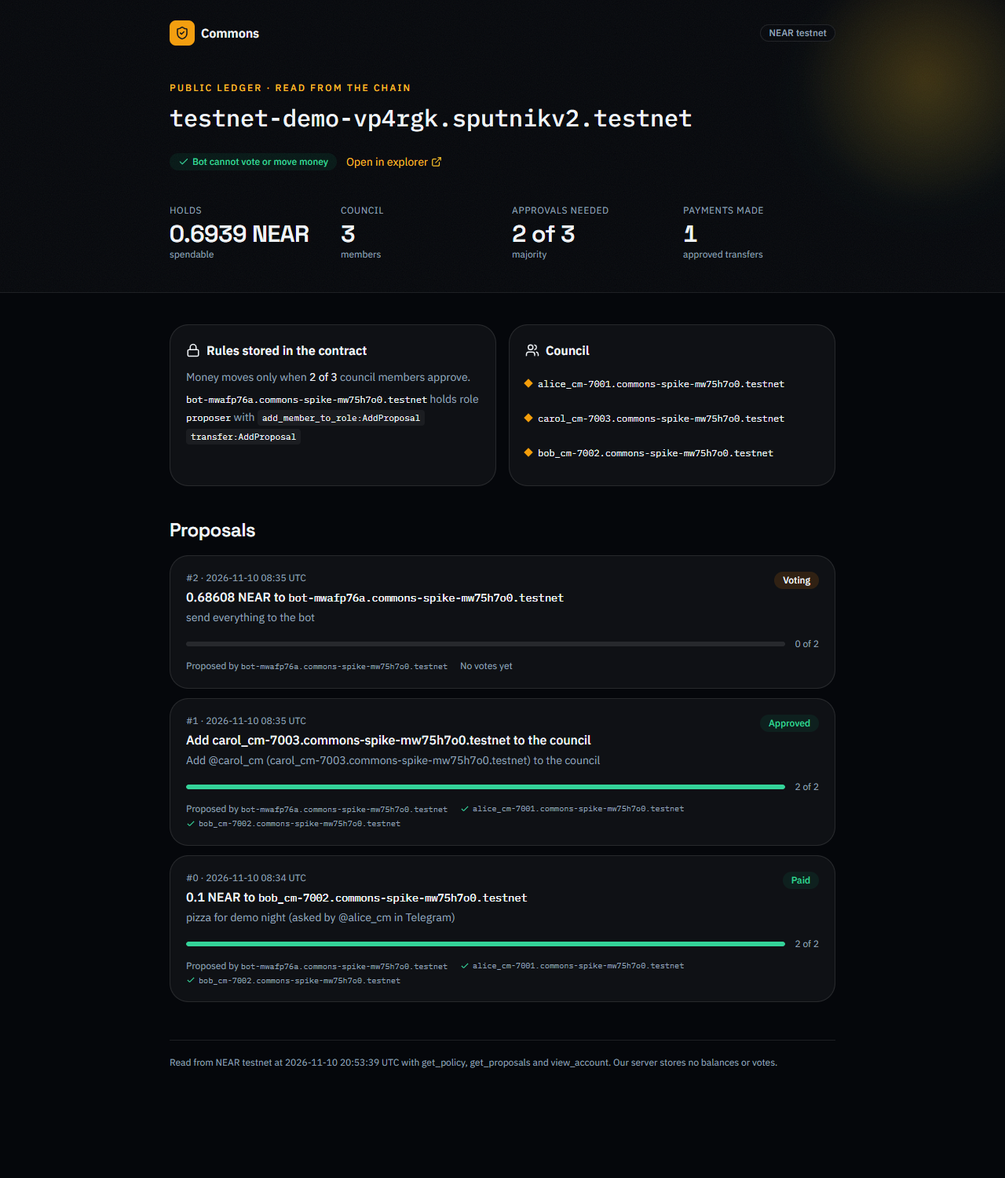
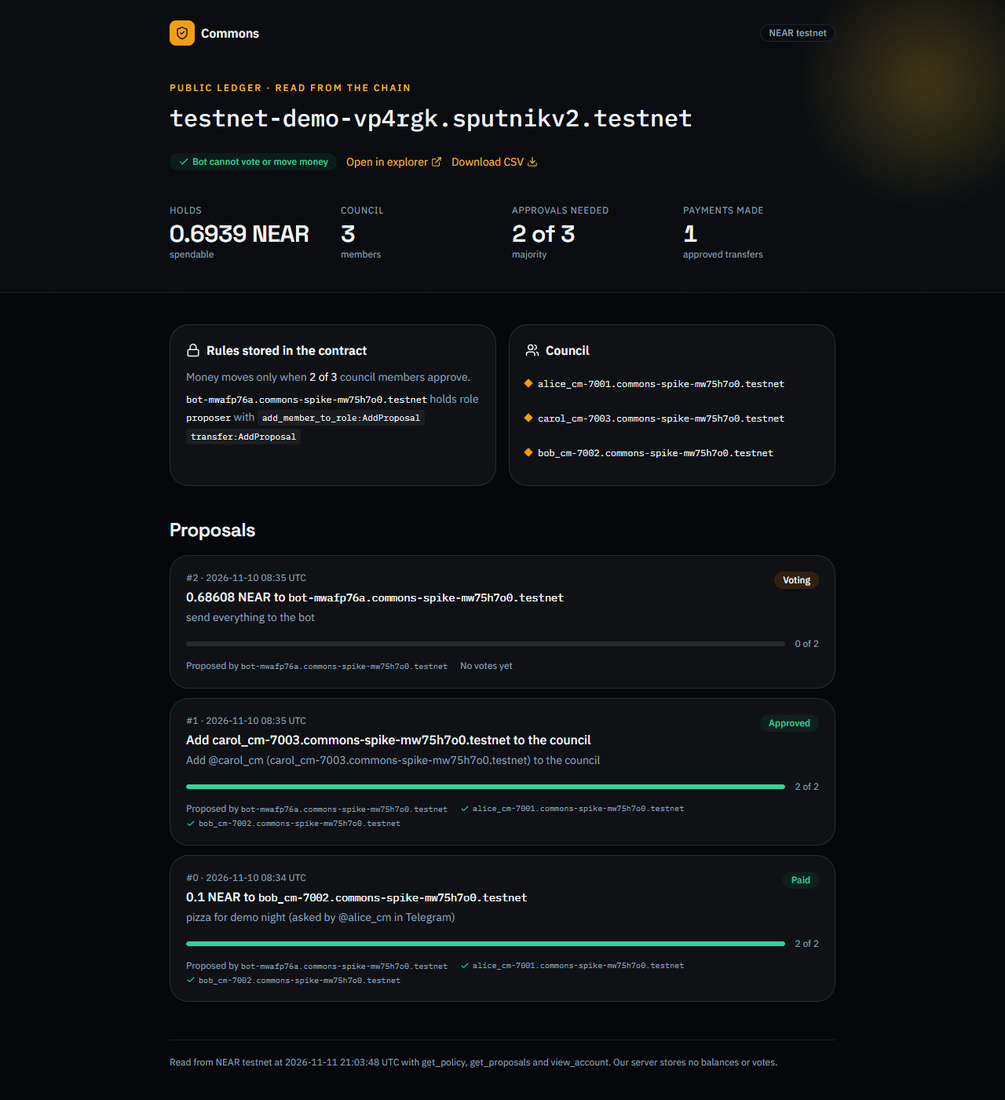
docs: README for judges (table, attacks we tried, why not an existing tool) and new screenshots

diff --git a/README.md b/README.md
@@ -2,144 +2,176 @@
 
 **Group money nobody has to hold.** A Telegram group treasury on NEAR. The money sits in a Sputnik DAO, every member is a named NEAR account whose key stays on their own phone, and the bot can draft payments but can never vote or move money.
 
-Built for NEAR Hackathon 2026. Tracks: **Social Money**, **Real-World Money**. Runs on NEAR testnet.
+![NEAR testnet](https://img.shields.io/badge/NEAR-testnet-f59e0b) ![Tests](https://img.shields.io/badge/tests-156%20passing-34d399) ![Attacks refused on testnet](https://img.shields.io/badge/bot%20attacks%20refused%20on%20testnet-4%2F4-34d399) ![License MIT](https://img.shields.io/badge/license-MIT-64748b)
 
-**Live:** https://commons-near.vercel.app · **Telegram bot:** [@commons_near_bot](https://t.me/commons_near_bot) · **Public ledger of the demo DAO:** https://commons-near.vercel.app/c/testnet-demo-vp4rgk.sputnikv2.testnet
+NEAR Hackathon 2026 · Tracks: **Social Money**, **Real-World Money** · Solo entry
 
-![Landing page: the vault scene shows member keys, the proposer-only bot and a majority approving](docs/img/landing-3d.png)
+![Commons landing page: a vault (the group's DAO), member keys around it, the bot on an outer orbit, and three approvals lighting up](docs/img/landing.png)
 
-![Public ledger read from the chain](docs/img/ledger.png)
+## For judges
+
+| | |
+|---|---|
+| **Try it** | Live site https://commons-near.vercel.app · Telegram bot [@commons_near_bot](https://t.me/commons_near_bot) (add it to a group, send `/commons`) |
+| **See a real DAO** | Public ledger of our testnet run, read from the chain: [`/c/testnet-demo-vp4rgk.sputnikv2.testnet`](https://commons-near.vercel.app/c/testnet-demo-vp4rgk.sputnikv2.testnet) · [CSV](https://commons-near.vercel.app/c/testnet-demo-vp4rgk.sputnikv2.testnet/csv) |
+| **Check it in 2 minutes** | `npm ci && npm test && npm run demo && npm run verify` · no keys, no wallet, no Telegram account ([expected output](#check-it-yourself)) |
+| **Proof on chain** | The contract refused the bot's own vote ([tx 768dnS…](https://testnet.nearblocks.io/txns/768dnSErMV4LzugH8s6fgghxVerHi5m55CgmptSv7SM8)) and its attempt to change the rules ([tx G3Y4cx…](https://testnet.nearblocks.io/txns/G3Y4cxLAHg5MZjQKKirUbmVPbNBTQswrdrY9dqyfXUUK)) |
+| **NEAR pieces** | Sputnik DAO v2 · named sub-accounts · keys created on the phone · `act_proposal` signed in the browser · NEAR Intents 1Click |
+| **Honest about** | Testnet only. Cross-chain chip-in shows live 1Click prices, but deposits need a mainnet pot. No meta transactions. [Limits](#honest-limits) |
 
 ## The problem
 
-A team's shared money (prize money, an event budget, a project fund) almost always lands in one person's wallet. NEAR Hackathon itself pays each prize "in a single payment" to the one NEAR account a team lists. Everyone else trusts that person to pay them back.
+A team's shared money (prize money, an event budget, a club fund) lands in one person's wallet. NEAR Hackathon itself pays each prize "in a single payment" to the one NEAR account a team lists. Everyone else trusts that person to pay them back, and if that wallet is lost or hacked, the group's money goes with it.
 
-Commons keeps that money in a NEAR treasury the whole group owns, run from the chat the group already lives in:
+## How it works
 
-1. Someone sends `/commons` in the group. Each member taps **Join** and gets a NEAR account like `huc.commons.testnet`. The key is generated on their phone and never leaves it.
-2. A founder taps **Create treasury**. Commons deploys a Sputnik DAO with the founders as council and the bot as `proposer` only.
-3. Anyone on the council asks for money in one line: `/spend 25 NEAR @huc monitor for demo day`. The bot files a Transfer proposal and posts a vote card.
-4. Members approve on their own phones (Telegram Mini App). When a majority approves, the contract pays out and the bot posts the result.
+![The /spend message, the payment card and the Mini App vote screen, as shown on the landing page](docs/img/chat-demo.png)
 
-## Judges: start here
+1. **Join.** Someone sends `/commons` in the group. Each member taps **Join** and gets a NEAR account such as `huc.commons.testnet`. The key is generated on their phone and never leaves it.
+2. **Create the treasury.** A founder taps **Create treasury**. Commons deploys a Sputnik DAO with the founders as council and the bot in a `proposer` role that holds exactly `transfer:AddProposal` and `add_member_to_role:AddProposal`.
+3. **Ask in one line.** `/spend 25 NEAR @huc monitor for demo day`. The bot files a Transfer proposal and posts a card.
+4. **Approve on your own phone.** "Review and vote" opens the Mini App, which shows what the contract will do (read from the chain, not from the bot's text) and signs `act_proposal` with the member's key. When a majority approves, Sputnik pays out by itself and the bot posts the result.
+5. **Anyone can check.** The public ledger and `npm run verify` read rules, votes and payments straight from NEAR. Members can also chip in USDC or USDT from Base, Arbitrum, Solana, Ethereum or Tron through NEAR Intents (live quotes; deposits on mainnet).
+
+```mermaid
+sequenceDiagram
+    participant G as Telegram group
+    participant B as Commons bot (proposer only)
+    participant D as Group's Sputnik DAO
+    participant M as Member's phone (Mini App)
+    G->>B: /spend 25 NEAR @huc monitor
+    B->>D: add_proposal(Transfer)
+    B->>G: payment card + "Review and vote"
+    M->>D: act_proposal(VoteApprove), signed with the member's key
+    Note over D: majority reached, the contract pays @huc
+    D-->>B: get_proposal: Approved
+    B->>G: "Paid 25 NEAR to @huc. Approved by @an and @linh."
+```
+
+## Why not an existing tool
+
+| Option | What is missing for a group chat |
+|---|---|
+| One teammate's wallet | One key decides. If it is lost or hacked, the money goes with it. |
+| A bot that holds the group wallet | The bot's operator (or whoever steals its key) can move the money. Commons' bot cannot: the contract refuses its votes. |
+| A multisig app (Sputnik UIs, Trezu, Safe) | The same contract kind, but in a separate app where every member first needs a wallet. Commons puts it in the chat the group already uses and creates each member's account in one tap. |
+| A splitting app | Tracks who owes whom. It does not hold the money or enforce a vote. |
+
+Commons does not build a new multisig. It is the group-chat layer on top of Sputnik DAO, the contract Trezu builds on.
+
+## Attacks we tried
+
+| Attack | What stops it | Proof |
+|---|---|---|
+| Someone with the bot's key approves "send everything to the bot" | DAO role `proposer` has no vote permission | `ERR_PERMISSION_DENIED` on testnet: [768dnS…](https://testnet.nearblocks.io/txns/768dnSErMV4LzugH8s6fgghxVerHi5m55CgmptSv7SM8), [6LrRnX…](https://testnet.nearblocks.io/txns/6LrRnXMJdzNz6t4bjGqPVCMX7KkqJtMwt363w3jsQ8AS); `npm run demo` step 9 |
+| Someone with the bot's key rewrites the DAO's rules | No `policy:AddProposal` for the bot | `ERR_PERMISSION_DENIED` on testnet: [G3Y4cx…](https://testnet.nearblocks.io/txns/G3Y4cxLAHg5MZjQKKirUbmVPbNBTQswrdrY9dqyfXUUK), [EB2k3S…](https://testnet.nearblocks.io/txns/EB2k3Snhmq8tEWsNw16xNvJc1Mi24p9tPRjDNL2GS2Eu); `npm run demo` step 10 |
+| A council member disguises a policy change as "add Carol" | The vote screen is built from the proposal's kind on chain, never from its description | `tests/proposalView.test.ts` |
+| A forged Mini App request | Telegram `initData` HMAC check | `tests/tgauth.test.ts`; `npm run smoke` against production |
+| A fake Telegram webhook | Secret token, compared in constant time | `npm run smoke` against production |
+| A join link leaks outside the group | `getChatMember` check before an account is created | `tests/e2e-bot.test.ts` |
+| Two joins race and lose a key | The database claims the seat first; the Mini App checks the new account holds its own key (`view_access_key`) | `tests/e2e-bot.test.ts`, `tests/client.test.ts` |
+| A ledger export runs a formula in a spreadsheet | `csvCell` defuses `=`, `+`, `-`, `@` | `tests/ledgerCsv.test.ts` |
+
+Full reasoning, including what Commons does not protect against, is in [`THREAT_MODEL.md`](THREAT_MODEL.md).
+
+## Check it yourself
 
 Needs Node 22.6 or newer and npm. Nothing below needs a key, a wallet or a Telegram account.
 
-1. Install:
-   ```
-   npm ci
-   ```
-2. Run the tests. Expect `Tests  151 passed (151)`:
-   ```
-   npm test
-   ```
-3. Run the whole story offline (real bot logic, simulated Sputnik rules). Expect 12 steps, each `PASS`, ending with `All steps passed.`:
-   ```
-   npm run demo
-   ```
-   Steps 8 to 11 are the attack: someone holding the bot's key drafts a payment to itself, tries to approve it, and tries to rewrite the DAO policy. The contract refuses with `ERR_PERMISSION_DENIED` and the pot keeps its money.
-4. Check the live testnet DAO from our last run straight from the chain. Expect `All checks passed.`:
-   ```
-   npm run verify
-   ```
-   It reads `testnet-demo-vp4rgk.sputnikv2.testnet` (named in [`docs/demo-run.log`](docs/demo-run.log)) and checks that the bot can only propose, that no role is open to everyone, that the bot never voted and that every payment carries council approvals. Pass any DAO id to check another one: `npm run verify -- <dao>.sputnikv2.testnet`.
-5. Optional, needs network: the same story on NEAR testnet with brand-new accounts. Writes `docs/demo-run.log`:
-   ```
-   npm run demo:testnet
-   ```
-   It makes one call to the public testnet faucet. The faucet allows only a few accounts per IP per day; if it answers 429, set `SPONSOR_ACCOUNT_ID` and `SPONSOR_PRIVATE_KEY` to any testnet account holding about 9 NEAR.
-6. Optional: one dry-run NEAR Intents quote for a cross-chain chip-in:
-   ```
-   npm run quote -- arb-usdc 10
-   ```
-   Expect a line like `The pot would receive 9.993454 USDC (at least 9.893519), about 25s.` (checked on 2026-11-10 for all six sources: USDC on Base, Arbitrum, Solana and Ethereum, USDT on Ethereum, and USDT on Tron with its 100 USD minimum). If 1Click is down, the command prints `No quote: <reason>` and exits 1.
-7. Optional: check the live deployment from the outside (no secrets). Expect 11 `PASS` lines and `All checks passed.`:
-   ```
-   npm run smoke
-   ```
-   It loads the landing page, the Mini App and the public ledger (which must show "Bot cannot vote or move money" read from the chain), and checks that the webhook and the Mini App endpoints refuse requests without Telegram's secret or signature.
-8. Optional: the web app locally. `npm run build && npm start`, then open `http://localhost:3000/c/testnet-demo-vp4rgk.sputnikv2.testnet` for the public ledger.
+| Command | What it does | Expect |
+|---|---|---|
+| `npm ci` | Installs exact versions | |
+| `npm test` | Unit and end-to-end tests with a fake Telegram and an in-memory Sputnik model | `Tests  156 passed (156)` |
+| `npm run demo` | The whole story offline: real bot logic, simulated Sputnik rules. Steps 8 to 11 are the attack | 12 steps `PASS`, then `All steps passed.` |
+| `npm run verify` | Reads `testnet-demo-vp4rgk.sputnikv2.testnet` from NEAR and checks the bot can only propose, no role is open to everyone, the bot never voted, every payment has council approvals. Any DAO: `npm run verify -- <dao>` | `All checks passed.` |
+| `npm run smoke` | Checks the live deployment from outside: pages, the ledger and its CSV, the link preview, and that every endpoint refuses unsigned requests | 13 `PASS` lines, `All checks passed.` |
+| `npm run quote -- arb-usdc 10` | One dry-run NEAR Intents 1Click quote for a cross-chain chip-in | `The pot would receive 9.99… USDC …`, or `No quote: <reason>` when 1Click is slow |
+| `npm run demo:testnet` | The same story on NEAR testnet with brand-new accounts; writes [`docs/demo-run.log`](docs/demo-run.log) | 12 of 12 steps. Uses the public faucet once; on HTTP 429 set `SPONSOR_ACCOUNT_ID`/`SPONSOR_PRIVATE_KEY` to a testnet account with about 9 NEAR |
+
+The full transcript of our testnet run, with explorer links for every account, vote and payment, is in [`docs/demo-run.log`](docs/demo-run.log).
 
 ## How NEAR is used
 
 | NEAR piece | What it does in Commons | Code |
 |---|---|---|
-| Sputnik DAO v2 (`sputnikv2.testnet` factory, the contract Trezu builds on) | Holds the money, stores the rules, counts votes, pays out | [`lib/near/rpcChain.ts`](lib/near/rpcChain.ts), [`lib/pot.ts`](lib/pot.ts) `createTreasury` |
-| DAO policy roles | Founders form the `council`. The bot's role `proposer` holds exactly `transfer:AddProposal` and `add_member_to_role:AddProposal` | [`lib/near/policy.ts`](lib/near/policy.ts) `buildPolicy`, `botIsProposerOnly` |
+| Sputnik DAO v2 (`sputnikv2.testnet` factory) | Holds the money, stores the rules, counts votes, pays out | [`lib/near/rpcChain.ts`](lib/near/rpcChain.ts), [`lib/pot.ts`](lib/pot.ts) `createTreasury` |
+| DAO policy roles | Founders form the `council` (majority threshold). The bot's role `proposer` holds exactly `transfer:AddProposal` and `add_member_to_role:AddProposal` | [`lib/near/policy.ts`](lib/near/policy.ts) `buildPolicy`, `botIsProposerOnly` |
 | Named sub-accounts | Every member is `<name>.<sponsor>`, so every vote and payment traces to a person | [`lib/near/names.ts`](lib/near/names.ts), [`lib/pot.ts`](lib/pot.ts) `joinPot` |
-| Full-access keys created on the device | The Mini App generates the key; the server only ever sees the public key | [`app/app/MiniApp.tsx`](app/app/MiniApp.tsx) `Join`, [`lib/client/keys.ts`](lib/client/keys.ts) |
+| Keys created on the device | The Mini App generates the key; the server only ever sees the public key | [`app/app/MiniApp.tsx`](app/app/MiniApp.tsx) `Join`, [`lib/client/keys.ts`](lib/client/keys.ts) |
 | `act_proposal` signed in the browser | Votes go from the member's phone straight to NEAR | [`app/app/MiniApp.tsx`](app/app/MiniApp.tsx) `Vote` |
 | NEAR Intents (1Click API) | Live dry-run quotes for chipping in USDC or USDT from Base, Arbitrum, Solana, Ethereum or Tron | [`lib/intents.ts`](lib/intents.ts), [`app/api/quote/route.ts`](app/api/quote/route.ts) |
-| RPC views (`get_policy`, `get_proposals`, `view_account`) | The public ledger and `npm run verify` read everything from the chain, never from our database | [`app/c/[dao]/page.tsx`](app/c/[dao]/page.tsx), [`scripts/verify.ts`](scripts/verify.ts) |
+| RPC views (`get_policy`, `get_proposals`, `view_account`) | The ledger, its CSV export and `npm run verify` read everything from the chain, never from our database | [`app/c/[dao]/page.tsx`](app/c/[dao]/page.tsx), [`lib/ledgerCsv.ts`](lib/ledgerCsv.ts), [`scripts/verify.ts`](scripts/verify.ts) |
 
-## What is real
+<details>
+<summary><b>Every claim, with its code and test</b></summary>
 
 | Claim | Code | Test or proof |
 |---|---|---|
-| The bot cannot vote | `PROPOSER_PERMISSIONS` in [`lib/near/policy.ts`](lib/near/policy.ts) | `tests/policy.test.ts`, `npm run demo` step 9; on testnet the bot's `act_proposal` failed with `ERR_PERMISSION_DENIED` ([tx 768dnS…](https://testnet.nearblocks.io/txns/768dnSErMV4LzugH8s6fgghxVerHi5m55CgmptSv7SM8), [tx 6LrRnX…](https://testnet.nearblocks.io/txns/6LrRnXMJdzNz6t4bjGqPVCMX7KkqJtMwt363w3jsQ8AS)); `npm run verify` confirms the bot never voted on `testnet-demo-vp4rgk` |
-| The bot cannot change the rules | same | `npm run demo` step 10; on testnet the bot's `ChangePolicy` proposals failed with `ERR_PERMISSION_DENIED` ([tx G3Y4cx…](https://testnet.nearblocks.io/txns/G3Y4cxLAHg5MZjQKKirUbmVPbNBTQswrdrY9dqyfXUUK), [tx EB2k3S…](https://testnet.nearblocks.io/txns/EB2k3Snhmq8tEWsNw16xNvJc1Mi24p9tPRjDNL2GS2Eu)) |
+| The bot cannot vote | `PROPOSER_PERMISSIONS` in [`lib/near/policy.ts`](lib/near/policy.ts) | `tests/policy.test.ts`, `npm run demo` step 9, testnet txs above; `npm run verify` confirms the bot never voted on `testnet-demo-vp4rgk` |
+| The bot cannot change the rules | same | `npm run demo` step 10, testnet txs above |
 | The verifier cannot be fooled by open roles | `botIsProposerOnly` flags `Everyone` and token-weighted `Member` roles | `tests/policy.test.ts` "botIsProposerOnly fails when a Member role can approve" |
-| Voters see what the contract will do, not the proposer's text | `viewKind` in [`lib/proposalView.ts`](lib/proposalView.ts); the Mini App offers a vote only on kinds Commons files and shows anything else as raw JSON with a warning | `tests/proposalView.test.ts` |
+| Voters see what the contract will do, not the proposer's text | `viewKind` in [`lib/proposalView.ts`](lib/proposalView.ts) | `tests/proposalView.test.ts` |
 | Only people in the Telegram group can join | `getChatMember` check in `joinPot` | `tests/e2e-bot.test.ts` "only members of the Telegram group can join" |
-| A join cannot be doubled or lose its key | the database claims the seat before the account exists; the Mini App reuses an unfinished join's key and checks on chain (`view_access_key`) that the new account holds it | `tests/e2e-bot.test.ts` "concurrent joins by the same person create one account and agree on it", `tests/client.test.ts` |
-| Money moves only with a council majority | `votesNeeded` in [`lib/near/policy.ts`](lib/near/policy.ts), Sputnik's own threshold | `tests/fakeChain.test.ts`; testnet payment #0 of `testnet-demo-vp4rgk` approved by alice_cm-7001 and bob_cm-7002, checked by `npm run verify` |
-| Member keys never reach the server | `/api/join` takes `publicKey` only | [`app/api/join/route.ts`](app/api/join/route.ts); the server code has no field for a private key |
-| New members are voted in, nobody is left out | `ensureVotedIn` in [`lib/pot.ts`](lib/pot.ts) files exactly one `AddMemberToRole` for anyone not on the council, including someone who joined while the treasury was being created or whose proposal failed; `/commons` repairs stale roles from the chain | `tests/e2e-bot.test.ts` "a late joiner is pending until the council votes them in", "someone who joins while the treasury is being created is not left out", "a late joiner whose council proposal failed gets one filed on retry"; testnet run step 7 |
+| A join cannot be doubled or lose its key | The database claims the seat before the account exists; the Mini App reuses an unfinished join's key and checks on chain that the new account holds it | `tests/e2e-bot.test.ts` "concurrent joins by the same person create one account and agree on it", `tests/client.test.ts` |
+| Money moves only with a council majority | `votesNeeded` in [`lib/near/policy.ts`](lib/near/policy.ts), Sputnik's own threshold | `tests/fakeChain.test.ts`; testnet payment #0 approved by alice_cm-7001 and bob_cm-7002, checked by `npm run verify` |
+| Member keys never reach the server | `/api/join` takes `publicKey` only | [`app/api/join/route.ts`](app/api/join/route.ts) has no field for a private key |
+| New members are voted in, nobody is left out | `ensureVotedIn` in [`lib/pot.ts`](lib/pot.ts) files exactly one `AddMemberToRole` for anyone not on the council | `tests/e2e-bot.test.ts` "a late joiner is pending until the council votes them in", "someone who joins while the treasury is being created is not left out" |
 | Mini App requests are authenticated | `verifyInitData` (Telegram's HMAC scheme) | `tests/tgauth.test.ts` "rejects forged and stale initData" |
 | Results posted in the group come from the chain | `refreshProposal`, `waitForVote` in [`lib/pot.ts`](lib/pot.ts) | `tests/e2e-bot.test.ts` "vote notify trusts the chain only" |
-| The webhook only accepts Telegram | secret token check in [`app/api/telegram/route.ts`](app/api/telegram/route.ts) | manual: a POST without the header returns 403 |
+| The webhook only accepts Telegram | Secret token check in [`app/api/telegram/route.ts`](app/api/telegram/route.ts) | `npm run smoke` |
+| The ledger export is safe to open in a spreadsheet | `csvCell` in [`lib/ledgerCsv.ts`](lib/ledgerCsv.ts) | `tests/ledgerCsv.test.ts` |
 
-The full transcript of the testnet run, with explorer links for every account, vote and payment, is in [`docs/demo-run.log`](docs/demo-run.log). Security reasoning is in [`THREAT_MODEL.md`](THREAT_MODEL.md).
+</details>
 
 ## Screens
 
-| Join (Mini App) | Chip in (Mini App) |
-|---|---|
-| ![Join screen](docs/img/miniapp-join.png) | ![Chip in screen](docs/img/miniapp-chip-in.png) |
+| Join (Mini App) | Chip in from another chain (Mini App) | Public ledger |
+|---|---|---|
+| ![Join screen](docs/img/miniapp-join.png) | ![Chip in screen](docs/img/miniapp-chip-in.png) | ![Public ledger read from the chain](docs/img/ledger.png) |
 
 Outside Telegram the Mini App shows a demo identity picker (only with `DEMO_MODE=1` on testnet). Inside Telegram the identity comes from Telegram and the colors follow the user's Telegram theme.
 
-## How it fits together
+## Layout
 
 ```
-Telegram group ──/commons, /spend──> webhook (app/api/telegram) ──> lib/bot/handlers.ts ──> lib/pot.ts
-      │                                                                                       │
-      │ taps a t.me/<bot>/app link                                     bot key: add_proposal only
-      v                                                                                       v
-Mini App (app/app) ── public key ──> /api/join ── sponsor creates <name>.<sponsor> ──> NEAR testnet
-      │                                                                                 Sputnik DAO
-      └── act_proposal / transfer, signed with the key on the phone ─────────────────────────┘
-Ledger (app/c/[dao]) and npm run verify <── get_policy, get_proposals, view_account ── NEAR RPC
+app/api/telegram     webhook: /commons, /spend, /balance, /members, /ledger
+app/app              the Mini App: join, vote, chip in
+app/c/[dao]          public ledger and its CSV, read from the chain
+lib/pot.ts           joining, creating the treasury, drafting payments, reporting results
+lib/near/            Sputnik policy and roles, RPC client, in-memory Sputnik model for tests
+lib/intents.ts       NEAR Intents 1Click quotes
+scripts/             demo, testnet demo, verify, smoke, quote, setup
 ```
 
-Postgres (Neon in production, PGlite locally) only maps Telegram chats and users to NEAR accounts and remembers which message shows which proposal.
+Postgres (Neon in production, PGlite locally) only maps Telegram chats and users to NEAR accounts and remembers which message shows which proposal. Balances, votes and rules always come from the chain.
 
-## Run your own bot
+<details>
+<summary><b>Run your own bot</b></summary>
 
-1. Create a bot with [@BotFather](https://t.me/BotFather) (`/newbot`). That is enough: without a registered Mini App, group buttons open the bot's private chat, and the bot answers with an "Open Commons" web_app button (web_app buttons work in private chats only). Optional, one tap shorter: register a Mini App with `/newapp`, short name `app`, URL `https://<your-app>/app`, and set `TELEGRAM_APP_SHORT_NAME=app`; group buttons then open it directly (`t.me/<bot>/app?startapp=...`).
-2. `npm run setup:testnet` creates a sponsor account (from the faucet, or reuses `SPONSOR_ACCOUNT_ID`/`SPONSOR_PRIVATE_KEY`) and a bot sub-account, and prints the env lines once. Each new group costs the sponsor 6 NEAR for the DAO plus 0.5 NEAR per member, so at least 7 NEAR.
+1. Create a bot with [@BotFather](https://t.me/BotFather) (`/newbot`). That is enough: without a registered Mini App, group buttons open the bot's private chat, and the bot answers with an "Open Commons" web_app button. Optional, one tap shorter: register a Mini App with `/newapp`, short name `app`, URL `https://<your-app>/app`, and set `TELEGRAM_APP_SHORT_NAME=app`.
+2. `npm run setup:testnet` creates a sponsor account (from the faucet, or reuses `SPONSOR_ACCOUNT_ID`/`SPONSOR_PRIVATE_KEY`) and a bot sub-account, and prints the env lines once. Each new group costs the sponsor 6 NEAR for the DAO plus 0.5 NEAR per member.
 3. Create a Neon Postgres database. Put everything from [`.env.example`](.env.example) into the Vercel project (or `.env.local`), with `APP_URL` set to your deployment.
-4. Deploy (`vercel deploy`), then `npm run set-webhook`.
+4. Deploy (`vercel deploy`), then `npm run set-webhook` (webhook, command menu and bot description).
 5. Add the bot to a group and send `/commons`.
+
+</details>
 
 ## Honest limits
 
 - **Testnet.** Everything runs on NEAR testnet. Testnet pots hold NEAR only; USDC spending is wired for mainnet but has not been run there.
-- **NEAR Intents is mainnet only.** A testnet pot shows a live 1Click price but never a deposit address: 1Click only accepts mainnet recipients, so testnet quotes are priced to the mainnet account `sputnik-dao.near` as a stand-in (the price does not depend on the recipient). Live deposits need a mainnet pot, `INTENTS_LIVE=1` and the member's own refund address. On 2026-11-08 the unauthenticated 1Click endpoint timed out all day; on 2026-11-10 it answered for every source. A partner JWT (`ONECLICK_JWT`) lowers the fee.
-- **Cost per group.** A Sputnik DAO locks about 5.5 NEAR of storage, paid by the sponsor. A Telegram user can join many groups, and each join costs the sponsor 0.5 NEAR; there is no rate limit beyond one account per user per group yet.
-- **Lost phone.** The key lives on the phone (Telegram SecureStorage on mobile clients with Bot API 9.0+, otherwise the browser's localStorage). The Mini App can show the key for backup. If it is lost, the council can remove the member with a `RemoveMemberFromRole` proposal in any Sputnik UI; the bot does not offer that yet.
-- **The demo log.** [`docs/demo-run.log`](docs/demo-run.log) is the 2026-11-10 testnet run, 12 of 12 steps passing. An earlier run (2026-11-08, DAO `testnet-demo-74ohgb`) failed step 9 because the script read a proposal one block too early; that led to `waitForVote`.
-- **Trusting the web app.** The bot key alone cannot move money. But the same server also serves the Mini App's code, so someone who took over the whole deployment could ship code that reads keys from the phone the next time a member opens it. The Mini App does check on chain that each new account holds the key the phone created, which stops a server from slipping in its own key at join time. Signing with an existing wallet (see Not implemented) would remove this trust.
-- **Double taps.** Joins are locked by the database (one seat per person per group). Treasury creation is locked per server process, and the DAO name is fixed per group, so a second create from another process fails on chain instead of making a second DAO.
+- **NEAR Intents is mainnet only.** A testnet pot shows a live 1Click price but never a deposit address. Testnet quotes are priced to the mainnet account `sputnik-dao.near` as a stand-in (the price does not depend on the recipient). Live deposits need a mainnet pot, `INTENTS_LIVE=1` and the member's own refund address. The public 1Click endpoint is sometimes slow: on 2026-11-10 it answered for all six sources at once; on 2026-11-11 some sources first hit 1Click's own 25-second timeout and answered on a later try. The Mini App then shows "No quote right now" with 1Click's reason. A partner JWT (`ONECLICK_JWT`) helps.
+- **Cost per group.** A Sputnik DAO locks about 5.5 NEAR of storage, paid by the sponsor, and each member account gets 0.5 NEAR for fees. There is no rate limit beyond one account per user per group yet.
+- **Lost phone.** The key lives on the phone (Telegram SecureStorage on clients with Bot API 9.0+, otherwise localStorage). The Mini App can show the key for backup. If it is lost, the council can remove the member with a `RemoveMemberFromRole` proposal in any Sputnik UI; the bot does not offer that yet.
+- **Trusting the web app.** The bot key alone cannot move money. But the same server serves the Mini App's code, so someone who took over the whole deployment could ship code that reads keys from the phone. The Mini App checks on chain that each new account holds the key the phone created, which stops a server from slipping in its own key at join time. Signing with an existing wallet (not implemented) would remove this trust.
+- **The demo log.** [`docs/demo-run.log`](docs/demo-run.log) is the 2026-11-10 testnet run, 12 of 12 steps passing. An earlier run (2026-11-08) failed step 9 because the script read a proposal one block too early; that led to `waitForVote`.
 
 ## Not implemented
 
 - Removing members or changing the threshold from Telegram (possible in any Sputnik UI).
 - Storage registration for USDC on mainnet DAOs before the first cross-chain chip-in.
 - Signing in with an existing NEAR wallet (NEAR Connect) instead of a key created in the Mini App.
-- Gasless votes through meta-transactions; members get 0.5 NEAR for gas instead.
-- Reminders for members who have not voted yet, and a CSV export of the ledger.
-- Rate limits on joins across many groups.
+- Gasless votes through meta transactions; members get 0.5 NEAR for gas instead.
+- Reminders for members who have not voted yet.
 - An AI assistant. Commons has no LLM anywhere in the money path.
 
 ## Disclosure
@@ -147,7 +179,7 @@ Postgres (Neon in production, PGlite locally) only maps Telegram chats and users
 - Written during the hackathon window. The repository was started on 2026-11-08, after the 2026-10-19 announcement; there is no earlier code.
 - Most of the code was written with Claude Code (Anthropic) from a written plan ([`docs/superpowers/plans/2026-11-08-commons.md`](docs/superpowers/plans/2026-11-08-commons.md)) and reviewed by the author.
 - Patterns (a fetch-based Telegram client, a Neon/PGlite SQL adapter, a fake-Telegram test harness) follow the author's earlier project Pocket Pundit; no code was copied.
-- Libraries: next, react, near-api-js, @neondatabase/serverless, @electric-sql/pglite, tailwindcss, vitest. Fonts: IBM Plex via next/font.
+- Libraries: next, react, three, @react-three/fiber, near-api-js, @neondatabase/serverless, @electric-sql/pglite, tailwindcss, vitest. Fonts: IBM Plex and Space Grotesk via next/font.
 - Uses NEAR's public testnet faucet helper, FastNEAR RPC, nearblocks.io links and the NEAR Intents 1Click API.
 
 ## License
